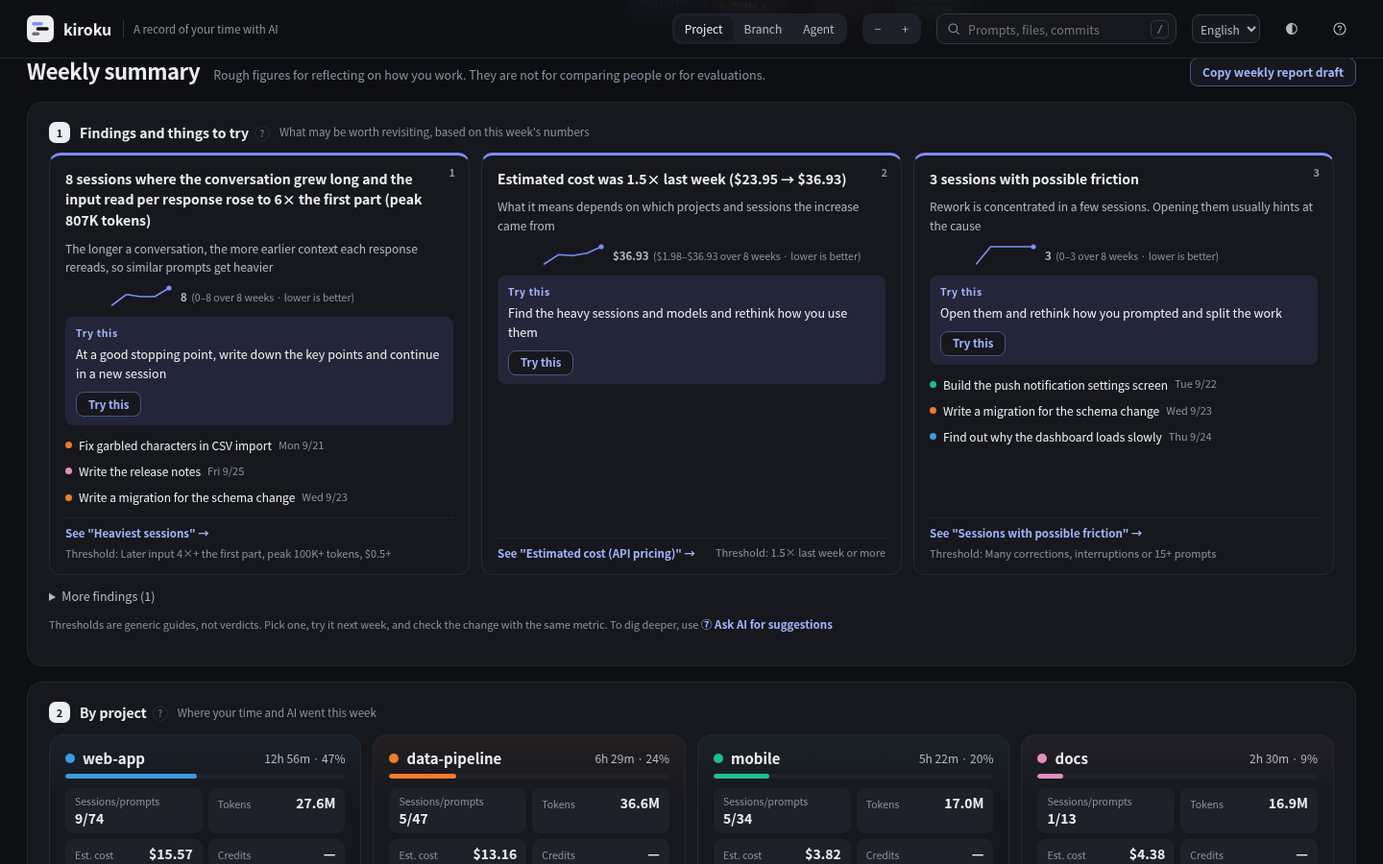
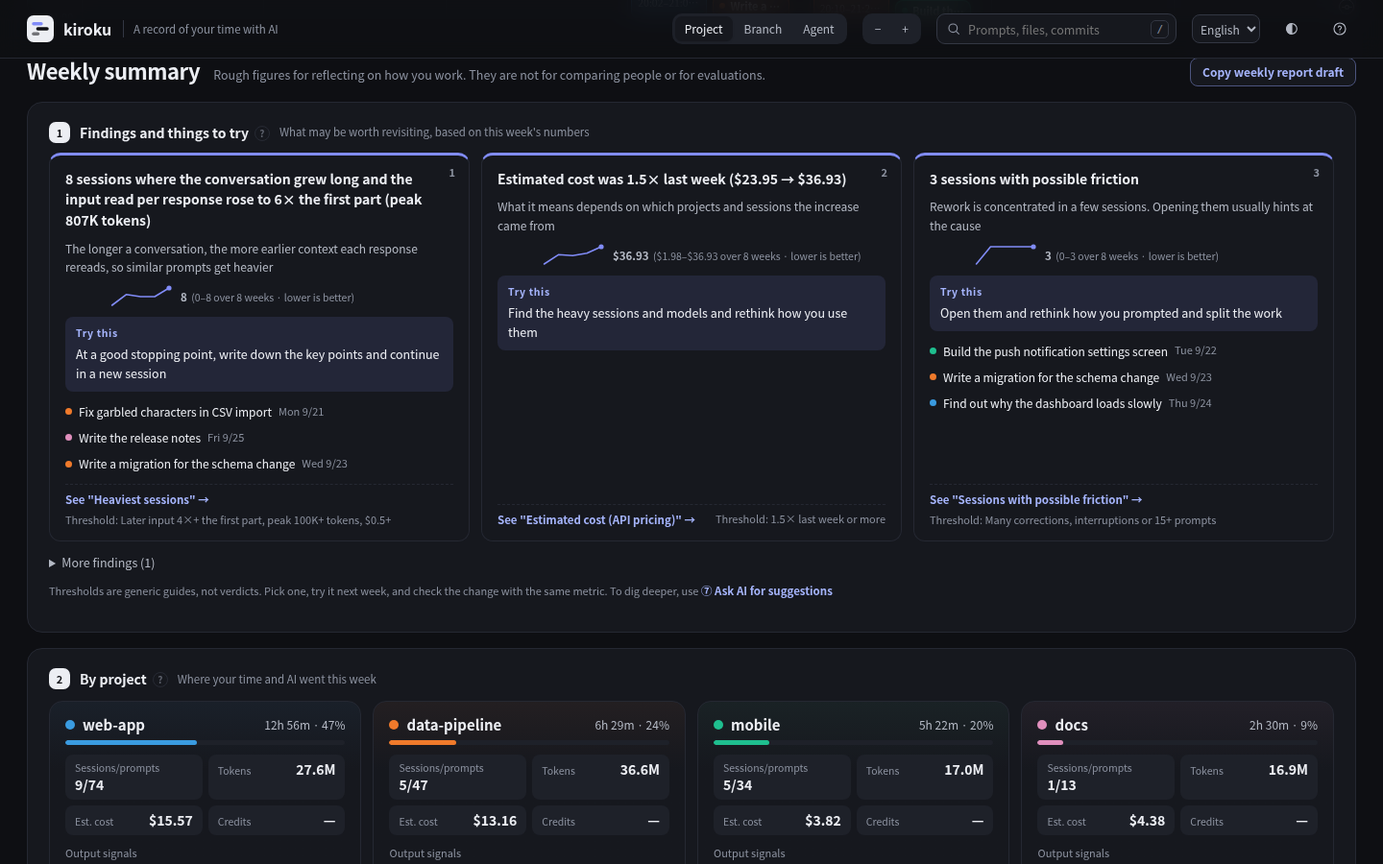
気づきの「これを試す」ボタンと、試す前との比較の帯を外す (#53)
気づきのカードには、試せることと 8 週の推移が残るので、効いたかは推移で確かめられる。
README・ガイド・利用者テストのシナリオ・CHANGELOG・スクリーンショットも合わせた。

Claude-Session: https://claude.ai/code/session_01WXnCm54bK3Mj4QdxNoNc9j

diff --git a/internal/web/template.html b/internal/web/template.html
@@ -190,20 +190,6 @@ kbd{font:11px/1 var(--mono);padding:3px 5px;border-radius:5px;border:1px solid v
 .spark small{font-size:10.5px;line-height:1.4}
 .spark small b{color:var(--ink-2);font-size:11.5px;font-variant-numeric:tabular-nums;margin-right:2px}
 .fcard .act{position:relative}
-.fcard .ftry{align-self:flex-start;margin-top:6px;height:26px;font-size:11.5px;color:var(--acc-ink);border-color:color-mix(in oklab,var(--acc) 35%,var(--rule-2));font-weight:600}
-.fcard .trying{font-style:normal;font-size:11px;font-weight:700;color:var(--acc-ink);margin-top:4px}
-.trybar{display:flex;flex-direction:column;gap:8px;margin:10px 0 4px;padding:12px 16px;border-radius:12px;border:1px solid color-mix(in oklab,var(--acc) 35%,var(--rule));background:var(--acc-soft)}
-.trybar .th{display:flex;flex-wrap:wrap;gap:4px 10px;align-items:baseline}
-.trybar .th>b{font-size:10.5px;letter-spacing:.06em;color:var(--on-acc);background:var(--acc);padding:2px 8px;border-radius:999px}
-.trybar .tt{font-weight:650;font-size:13.5px}
-.trybar .th .muted{font-size:11.5px}
-.trybar .tb{font-size:12.5px;color:var(--ink-2);display:flex;flex-wrap:wrap;gap:4px 10px;align-items:baseline}
-.trybar .tb b{color:var(--ink);font-variant-numeric:tabular-nums}
-.trybar .tf{display:flex;justify-content:space-between;align-items:center;gap:10px;flex-wrap:wrap}
-.vd{font-size:11px;font-weight:700;padding:1px 8px;border-radius:999px}
-.vd.good{color:var(--c2);background:color-mix(in oklab,var(--c2) 14%,transparent)}
-.vd.bad{color:var(--warn);background:color-mix(in oklab,var(--warn) 12%,transparent)}
-.vd.same{color:var(--ink-2);background:var(--surface-2)}
 .fmore summary{cursor:pointer;font-size:12.5px;color:var(--ink-2)}
 .fok{font-size:13px;color:var(--ink-2);margin-top:8px}
 .sact{display:flex;flex-direction:column;gap:6px;margin-top:14px;padding:12px 14px;border-radius:10px;background:var(--acc-soft)}
@@ -912,9 +898,6 @@ function summary(){
     t.scrollIntoView({behavior: matchMedia("(prefers-reduced-motion: reduce)").matches ? "auto" : "smooth", block: "center"});
     if (t.classList.contains("hb") && t.getAttribute("aria-expanded") !== "true") t.click(); });
   const more = R.querySelector("#pmore"); if (more) more.onclick = () => { st.allProj = !st.allProj; summary(); };
-  R.querySelectorAll("[data-try]").forEach(b => b.onclick = () => { const f = findList(w, pw, unit).find(x => x.k === b.dataset.try), p = periodBack(0); if (!f) return;
-    store.set("try", {k: f.k, act: f.act, mode: st.mode, start: p.key, label: p.label, base: metricAt(f.k, p)}); toast(tr("次の期間に、同じ指標で比べます", "Next period, you'll see the same metric compared")); summary(); });
-  const ts = R.querySelector("#trystop"); if (ts) ts.onclick = () => { store.set("try", null); summary(); };
   const ko = R.querySelector("#keepoff"); if (ko) ko.onclick = () => { store.set("keepNoticeOff", true); summary(); };
   const ms = R.querySelector("#moreS"); if (ms) ms.ontoggle = () => { st.moreS = ms.open; };
   const rc = R.querySelector("#rptcopy"); if (rc) rc.onclick = () => copy(reportText(w, M), tr("コピーしました。セッション名は依頼文の冒頭なので、直してから貼ってください", "Copied. Session names are the start of your prompts, so edit them before pasting"), 4500);
@@ -1057,7 +1040,6 @@ function askPrompt(w, pw, M){
     tr("- 指標の定義はエージェントごとに異なります。エージェント同士を直接比較しないでください", "- Metric definitions differ by agent. Don't compare agents directly"),
     tr("- 数値はすべて履歴から推定した目安です。データから言えないことは、推測であると明記してください", "- All figures are rough estimates from history. Clearly mark anything the data can't support as a guess"),
     tr("- 各指標の定義と、そこから言えること・言えないことは末尾の「指標の読み方」を参照してください", "- See \"How to read the metrics\" at the end for each metric's definition and what it can and cannot tell you"),
-    ...(() => { const T = store.get("try", null); return T && H()[T.k] ? ["", tr("# いま試していること", "# What I'm trying now"), tr(`- ${actOf(T)}（${tryLabel(T)}から。指標: ${H()[T.k].n}、試す前 ${fmtM(T.k, T.base)}、この${unit} ${fmtM(T.k, metricAt(T.k, periodBack(0)))}）`, `- ${actOf(T)} (since ${tryLabel(T)}; metric: ${H()[T.k].n}; before: ${fmtM(T.k, T.base)}; ${uThis(unit)}: ${fmtM(T.k, metricAt(T.k, periodBack(0)))})`), `- ${tr("推移", "Trend")}: ${(() => { const r = []; for (let i = 7; i >= 0; i--){ const p = periodBack(i); r.push(`${p.label} ${fmtM(T.k, metricAt(T.k, p))}`); } return r.join(sep); })()}`] : []; })(),
     "", tr("# kiroku が基準で拾った気づき（判定ではなく候補）", "# Findings kiroku flagged by threshold (candidates, not verdicts)"),
     ...(() => { const F = findList(w, pw, unit); return F.length ? F.map(f => tr(`- ${f.see.replace(/<[^>]+>/g, "")}（基準: ${f.rule}）`, `- ${f.see.replace(/<[^>]+>/g, "")} (threshold: ${f.rule.charAt(0).toLowerCase() + f.rule.slice(1)})`)) : [tr("- 基準を超えた指標はありませんでした", "- No metric crossed a threshold")]; })(),
     "", tr("# 全体", "# Overall"),
@@ -1163,9 +1145,7 @@ function periodBack(i){ // 表示中の期間から i 個前の期間
 }
 function periodLabel(mode, k){ const [y, m, d] = k.split("-").map(Number); // 期間の名前（"2026-05" か "2026-05-04"）
   return mode === "month" ? `${y}/${m}` : tr(`${m}/${d} の週`, `week of ${m}/${d}`); }
-const tryLabel = T => T.start ? periodLabel(T.mode, T.start) : T.label; // 試し始めた期間（表示中の言語で）
 const actText = k => k === "night" ? tr("意図したものでなければ、終える時刻を先に決めておく。長い作業は日中に AI へ任せる", "If it wasn't intended, decide on a stop time in advance. Hand long tasks to AI during the day") : H()[k] ? H()[k].a : "";
-const actOf = T => actText(T.k) || T.act; // 試していること（表示中の言語で）
 function metricAt(k, p){ if (!MET[k] || !p.S) return null; const v = MET[k].f(p.S, p.ws, p.we); return v == null || Number.isNaN(v) ? null : v; }
 function spark(k){ // 8 期間の推移（記録のない期間は飛ばす）
   if (!MET[k]) return "";
@@ -1175,22 +1155,6 @@ function spark(k){ // 8 期間の推移（記録のない期間は飛ばす）
   const line = pts.map((p, i) => p.v == null ? null : `${x(i).toFixed(1)},${y(p.v).toFixed(1)}`).filter(Boolean).join(" ");
   const txt = tr(`${st.mode === "month" ? "8 か月" : "8 週"}の推移：${pts.map(p => `${p.l} ${fmtM(k, p.v)}`).join("、")}`, `${st.mode === "month" ? "8-month" : "8-week"} trend: ${pts.map(p => `${p.l} ${fmtM(k, p.v)}`).join(", ")}`);
   return `<span class="spark" title="${esc(pts.map(p => `${p.l}: ${fmtM(k, p.v)}`).join("\n"))}"><span class="sr">${esc(txt)}</span><svg viewBox="0 0 ${W} ${H}" width="${W}" height="${H}" aria-hidden="true"><polyline points="${line}"/>${pts[7].v != null ? `<circle cx="${x(7)}" cy="${y(pts[7].v)}" r="2.6"/>` : ""}</svg><small aria-hidden="true"><b>${fmtM(k, pts[7].v)}</b>${tr(`（${st.mode === "month" ? "8 か月" : "8 週"}で ${fmtM(k, lo)}〜${fmtM(k, hi)}・${MET[k].low ? "下がるほど" : "上がるほど"}望ましい）`, ` (${fmtM(k, lo)}–${fmtM(k, hi)} over ${st.mode === "month" ? "8 months" : "8 weeks"} · ${MET[k].low ? "lower" : "higher"} is better)`)}</small></span>`;
-}
-/* 試していること：気づきから 1 つ選び、その期間の値と、表示中の期間の値を比べる（ブラウザに保存） */
-function tryBar(unit){
-  const T = store.get("try", null); if (!T || !MET[T.k] || !H()[T.k]) return "";
-  const cur = periodBack(0), name = H()[T.k].n, head = `<b>${tr("試していること", "Trying")}</b><span class="tt">${esc(actOf(T))}</span><span class="muted">${tr(`（${esc(name)}・${esc(tryLabel(T))}から）`, `(${esc(name)} · since ${esc(tryLabel(T))})`)}</span>`;
-  let body;
-  if (T.mode !== st.mode) body = tr(`${T.mode === "month" ? "月" : "週"}表示に切り替えると、試す前と比べられます。`, `Switch to ${T.mode === "month" ? "month" : "week"} view to compare with before.`);
-  else if (cur.key === T.start) body = tr(`ここから試し始めました（${fmtM(T.k, T.base)}）。次の${unit}以降を開くと、同じ指標で比べます。`, `You started trying this here (${fmtM(T.k, T.base)}). Open ${uNext(unit)} or later to compare the same metric.`);
-  else if (cur.key < T.start) body = tr(`試す前の期間を表示しています。`, `You're viewing a period before you started.`);
-  else { const now = metricAt(T.k, cur);
-    if (now == null || T.base == null) body = tr(`この${unit}の「${esc(name)}」は記録がありません。`, `No records for "${esc(name)}" ${uThis(unit)}.`);
-    else { const d = now - T.base, rel = T.base ? Math.abs(d) / Math.abs(T.base) : (d ? 1 : 0), good = MET[T.k].low ? d < 0 : d > 0;
-      const v = rel < 0.1 ? ["same", tr("ほぼ変わらず", "About the same")] : good ? ["good", tr("望ましい方向に変化", "Moved the right way")] : ["bad", tr("望ましくない方向に変化", "Moved the wrong way")];
-      body = `${tr("試す前", "Before")} <b>${fmtM(T.k, T.base)}</b> → ${tr(`この${unit}`, uThis(unit))} <b>${fmtM(T.k, now)}</b> <span class="vd ${v[0]}">${v[1]}</span><span class="muted">${tr("1 回の差は揺れることがあります。推移で確かめてください。", "A single difference can be noise. Check the trend.")}</span>`; } }
-  return `<div class="trybar"><div class="th">${head}</div><div class="tb">${body}</div><div class="tf">${spark(T.k)}<button class="pill" id="trystop">${tr("やめる", "Stop")}</button></div></div>`;
-
 }
 /* 気づきと、試せること：指標が決まった基準を超えたものを拾う（AI は使わない。判定ではなく、確かめる候補） */
 function findList(w, pw, unit){
@@ -1232,18 +1196,17 @@ function findList(w, pw, unit){
 }
 const GOTO = {longctx: "heavy", modelfit: "models"}; // 専用の指標がない気づきは、関係する指標へ
 function findPanel(w, pw, unit, ph){
-  const F = findList(w, pw, unit), T = store.get("try", null);
+  const F = findList(w, pw, unit);
   const ses = ids => ids.map(id => { const s = DATA.find(x => x.id === id); return s ? `<button class="fses" data-id="${esc(id)}" style="--c:${colorOf(keyOf(s))}"><i></i><span>${esc(s.title)}</span><small>${md(s.start)}</small></button>` : ""; }).join("");
   const card = (f, i) => `<article class="fcard">
       <div class="fno">${i+1}</div>
       <p class="see">${f.see}</p><p class="why">${esc(f.why)}</p>
       ${spark(f.k)}
-      <div class="act"><b>${tr("試せること", "Try this")}</b><span>${esc(f.act)}</span>${MET[f.k] ? (T && T.k === f.k ? `<em class="trying">${tr("試しています", "Trying now")}</em>` : `<button class="pill ftry" data-try="${f.k}"${T ? ` title="${tr(`いま試している「${esc(actOf(T))}」をやめて、こちらに切り替えます`, `Stops trying "${esc(actOf(T))}" and switches to this`)}"` : ""}>${T ? tr("こちらに切り替える", "Switch to this") : tr("これを試す", "Try this")}</button>`) : ""}</div>
+      <div class="act"><b>${tr("試せること", "Try this")}</b><span>${esc(f.act)}</span></div>
       ${f.ids.length ? `<div class="fss">${ses(f.ids)}</div>` : ""}
       <div class="ff"><button class="flink" data-goto="${GOTO[f.k] || f.k}">${tr(`「${esc(H()[GOTO[f.k] || f.k].n)}」を見る →`, `See "${esc(H()[GOTO[f.k] || f.k].n)}" →`)}</button><span title="${tr("この気づきを出す基準", "The threshold for this finding")}">${tr("基準：", "Threshold: ")}${esc(f.rule)}</span></div></article>`;
   const top = F.slice(0, 3), rest = F.slice(3);
   return `<section class="panel fd">${ph(1, tr("気づきと、試せること", "Findings and things to try"), tr(`この${unit}の数値から、見直すとよさそうな点`, `What may be worth revisiting, based on ${uThis(unit)}'s numbers`), "findings")}
-    ${tryBar(unit)}
     ${F.length ? `<div class="fgrid">${top.map(card).join("")}</div>
       ${rest.length ? `<details class="fmore"><summary>${tr(`ほかの気づき（${rest.length} 件）`, `More findings (${rest.length})`)}</summary><div class="fgrid">${rest.map((f,i) => card(f, i+3)).join("")}</div></details>` : ""}`
       : `<p class="fok">${tr(`決めた基準を超えた指標はありませんでした。下のプロジェクト別やコストと成果で、先${unit}との違いを確かめられます。`, `No metric crossed a threshold. See By project and Cost and outputs below for changes since ${uLast(unit)}.`)}</p>`}

diff --git a/docs/guide.md b/docs/guide.md
@@ -56,7 +56,7 @@ go install github.com/MichinaoShimizu/kiroku@latest
   - セッションの「変更したファイル」：そのセッションの間のコミットで変わったファイルなら、そのコミットでのファイルのページを開きます
   - セッションの「作った PR」：AI が作った PR（`gh pr create` や GitHub のツールの結果に出た URL）を開きます
   - セッションの「履歴ファイル」：そのセッションの元の履歴を開きます。`kiroku serve` では画面から（読み込んだセッションの履歴ファイルだけを、手元の画面にだけ返します）、`kiroku html` では `file://` で開きます。SQLite の履歴は開けないので、パスのコピーだけです
-- カレンダーの下に、週次・月次サマリーを表示します。いちばん上の ① 気づきと、試せること では、基準を超えた指標を「見えたこと・試せること・該当するセッション・基準」の形で優先度の高い順に 3 件まで示します。「〜を見る」を押すと元の指標へ移動し、説明を開きます。各カードには、その指標の 8 週（月表示では 8 か月）の推移を表示します。「これを試す」を押すと、その期間の値を記録し、次の期間以降を開いたときに「試す前 → 今」の値と、望ましい方向に変わったかを表示します（記録はブラウザに保存され、1 つだけ持てます）。② プロジェクト別のカードでは、プロジェクトごとに「どのセッションに何時間、どれだけのトークン・目安コスト・クレジットを、どのモデルを中心に使い、どれが最も重かったか」と成果の印を示します。③ コストと成果では、使ったもの（作業時間・目安コスト・トークン・クレジット）と残ったもの（コミット・PR・変更した行など）を並べます。続いて ④ 時間の使い方 ⑤ AI の使い方 ⑥ 週 / 月のかたち、最後に ⑦ AI に改善案を聞く が表示されます。④ 時間の使い方では、推定を含む指標（言い直し・中断、切り替え、並列、待たせ時間）を「詳しい指標」に折りたたんでいます
+- カレンダーの下に、週次・月次サマリーを表示します。いちばん上の ① 気づきと、試せること では、基準を超えた指標を「見えたこと・試せること・該当するセッション・基準」の形で優先度の高い順に 3 件まで示します。「〜を見る」を押すと元の指標へ移動し、説明を開きます。各カードには、その指標の 8 週（月表示では 8 か月）の推移を表示します。試したことが効いたかは、次の期間以降にこの推移で確かめます。② プロジェクト別のカードでは、プロジェクトごとに「どのセッションに何時間、どれだけのトークン・目安コスト・クレジットを、どのモデルを中心に使い、どれが最も重かったか」と成果の印を示します。③ コストと成果では、使ったもの（作業時間・目安コスト・トークン・クレジット）と残ったもの（コミット・PR・変更した行など）を並べます。続いて ④ 時間の使い方 ⑤ AI の使い方 ⑥ 週 / 月のかたち、最後に ⑦ AI に改善案を聞く が表示されます。④ 時間の使い方では、推定を含む指標（言い直し・中断、切り替え、並列、待たせ時間）を「詳しい指標」に折りたたんでいます
 - 各指標の「?」を押すと、定義と、そこから言えること・言えないこと・打てる手を表示します
 - 「AI に改善案を聞く」には、表示中の週・月の集計をもとに、使い方の改善案を AI に聞くためのプロンプトを表示します。「プロンプトをコピー」でコピーし、お使いの AI エージェントに貼り付けて使います（kiroku 自身は AI を呼び出しません）。セッション名（依頼文の一部）とプロジェクト名を含むため、送る前に内容を確認してください
 - 検索（右上、`/`）：依頼文・タイトル・プロジェクト・ブランチに加えて、変更したファイル・PR・そのセッションの間のコミット（件名・ハッシュ・ファイル）も探します。カレンダーは一致したセッションだけを表示し、サマリーの位置に全期間の検索結果（どこに一致したかの抜粋つき）を表示します。結果を押すと、その週を開いて詳細を表示します

diff --git a/docs/guide.en.md b/docs/guide.en.md
@@ -56,7 +56,7 @@ The old forms `kiroku --serve`, `--json` and `-o` still work for now. `--weekly`
   - A session's "Files changed": a file changed by a commit made during that session opens the page for that file as of that commit
   - A session's "Pull requests created": opens pull requests created by AI (URLs that appeared in the results of `gh pr create` or GitHub tools)
   - A session's "History file": opens the original history of that session. In `kiroku serve` it opens from the view (only history files of loaded sessions are served, and only to the view on your machine); in `kiroku html` it opens via `file://`. SQLite histories cannot be opened, so you can only copy the path
-- Below the calendar, the weekly and monthly summary is shown. At the top, ① Findings and things to try shows up to 3 metrics that crossed a threshold, in priority order, as cards with what was observed, "Try this", the related sessions and the "Threshold". Press "See … →" to jump to the original metric and open its explanation. Each card shows that metric's 8-week trend (8 months in month view). Press "Try this" to record the value for that period; when you open later periods, it shows the values "Before → this week" and whether they moved the right way (the record is saved in the browser, and you can keep only one). ② By project shows, for each project, which sessions took how many hours, how many tokens, how much estimated cost and credits, which models were mainly used, and which session was the heaviest, along with output signals. ③ Cost and outputs puts what you spent (active time, estimated cost, tokens, credits) next to what was left behind (commits, pull requests, lines changed and so on). Then come ④ How you spent time, ⑤ How you used AI, ⑥ Shape of the week / month, and finally ⑦ Ask AI for suggestions. In ④ How you spent time, metrics that include estimates (corrections and interruptions, switches, parallel, wait time) are collapsed under "More metrics (includes estimates)"
+- Below the calendar, the weekly and monthly summary is shown. At the top, ① Findings and things to try shows up to 3 metrics that crossed a threshold, in priority order, as cards with what was observed, "Try this", the related sessions and the "Threshold". Press "See … →" to jump to the original metric and open its explanation. Each card shows that metric's 8-week trend (8 months in month view). To see whether something you tried worked, check this trend in later periods. ② By project shows, for each project, which sessions took how many hours, how many tokens, how much estimated cost and credits, which models were mainly used, and which session was the heaviest, along with output signals. ③ Cost and outputs puts what you spent (active time, estimated cost, tokens, credits) next to what was left behind (commits, pull requests, lines changed and so on). Then come ④ How you spent time, ⑤ How you used AI, ⑥ Shape of the week / month, and finally ⑦ Ask AI for suggestions. In ④ How you spent time, metrics that include estimates (corrections and interruptions, switches, parallel, wait time) are collapsed under "More metrics (includes estimates)"
 - Press "?" on any metric to see its definition and what it tells you, what it doesn't tell you, and what to try
 - "Ask AI for suggestions" shows a prompt, based on the figures for the week or month shown, that asks an AI for suggestions on how you use it. Copy it with "Copy prompt" and paste it into the AI agent you use (kiroku itself never calls an AI). It includes session names (parts of your prompts) and project names, so check it before sending
 - Search (top right, `/`): in addition to prompts, titles, projects and branches, it searches files changed, pull requests and commits made during each session (subject, hash, files). The calendar shows only matching sessions, and all-time search results (with excerpts showing where they matched) appear in place of the summary. Press a result to open its week and show the details

diff --git a/docs/usability.md b/docs/usability.md
@@ -27,8 +27,8 @@ Playwright で開き、次の 4 つの環境で試します。
 |---|---|---|---|
 | 1 | 初めて開いた人 | この画面が何で、先週自分が何をしていたかを知る | 30 秒以内に「何の画面か」と「先週いちばん時間を使ったプロジェクト」を言える |
 | 2 | 週報を書く人 | 先週の作業を週報に貼る | 週報の下書きをコピーし、そのまま貼れる形になっている。セッション名を直す必要があることに気づける |
-| 3 | AI の費用を抑えたい人 | 来週から何を変えるか 1 つ決める | 気づきから行動を 1 つ選び、「これを試す」を押し、何をすればいいかを自分の言葉で言える |
-| 4 | 試した結果を知りたい人 | 先週試したことが効いたか確かめる | 試す前と今の値、変化の方向、推移を読み取り、効いたかどうかを判断できる（判断できない理由も含めて） |
+| 3 | AI の費用を抑えたい人 | 来週から何を変えるか 1 つ決める | 気づきから行動を 1 つ選び、何をすればいいかを自分の言葉で言える |
+| 4 | 試した結果を知りたい人 | 先週試したことが効いたか確かめる | 気づきのカードの推移から変化の方向を読み取り、効いたかどうかを判断できる（判断できない理由も含めて） |
 | 5 | バグの原因を探す人 | 特定のファイルを AI が触ったセッションを見つける | 検索から該当セッションとコミットにたどり着き、依頼の流れを読める |
 | 6 | 利用上限で止まった人 | いつ・何をしていて上限に当たったかを知る | 上限に当たった時刻とセッションを見つけ、試せることを読める |
 | 7 | 1 つのセッションを振り返る人 | うまくいかなかったセッションを AI と振り返る | 詳細を開き、振り返り用のプロンプトをコピーできる |

diff --git a/README.md b/README.md
@@ -25,7 +25,7 @@ kiroku connects to the network only when `install.sh` or `kiroku update` downloa
 ![kiroku (dummy data)](docs/screenshot.png)
 
 - **Calendar**: when, in which project, and what you asked, by week or month. Your local git commits appear alongside, so you can see what changed where.
-- **Findings and things to try**: metrics that crossed a threshold, each with what was observed, why it matters, one thing to try, the related sessions and an 8-week trend. Pick one with "Try this" and the next weeks show the before-and-after.
+- **Findings and things to try**: metrics that crossed a threshold, each with what was observed, why it matters, one thing to try, the related sessions and an 8-week trend.
 - **Summary**: cost (time, tokens, estimated cost, credits) next to outcomes (commits, pull requests, lines edited by AI), by project and by day. Every metric explains what it can and cannot tell you.
 - **Search and weekly report**: search prompts, edited files and commits across all time, and copy a weekly report draft of what you did, your commits and pull requests.
 - **Improvement prompts**: build a prompt from the shown week, month or a single session that asks an AI for suggestions on how you use it. Copy it into the agent you already use.

diff --git a/CHANGELOG.md b/CHANGELOG.md
@@ -17,6 +17,10 @@ Notable changes to kiroku. Each release on GitHub uses its section here as the r
 - The demo shows daytime work whatever time zone you open it from
 - "Corrections" also count English phrases such as "that's wrong" or "try again"
 
+### Removed
+
+- The "Try this" button on findings and the before-and-after bar it showed. Each finding still suggests one thing to try, and its 8-week trend shows whether it changed
+
 ## v0.1.5 - 2026-10-04
 
 ### Added
